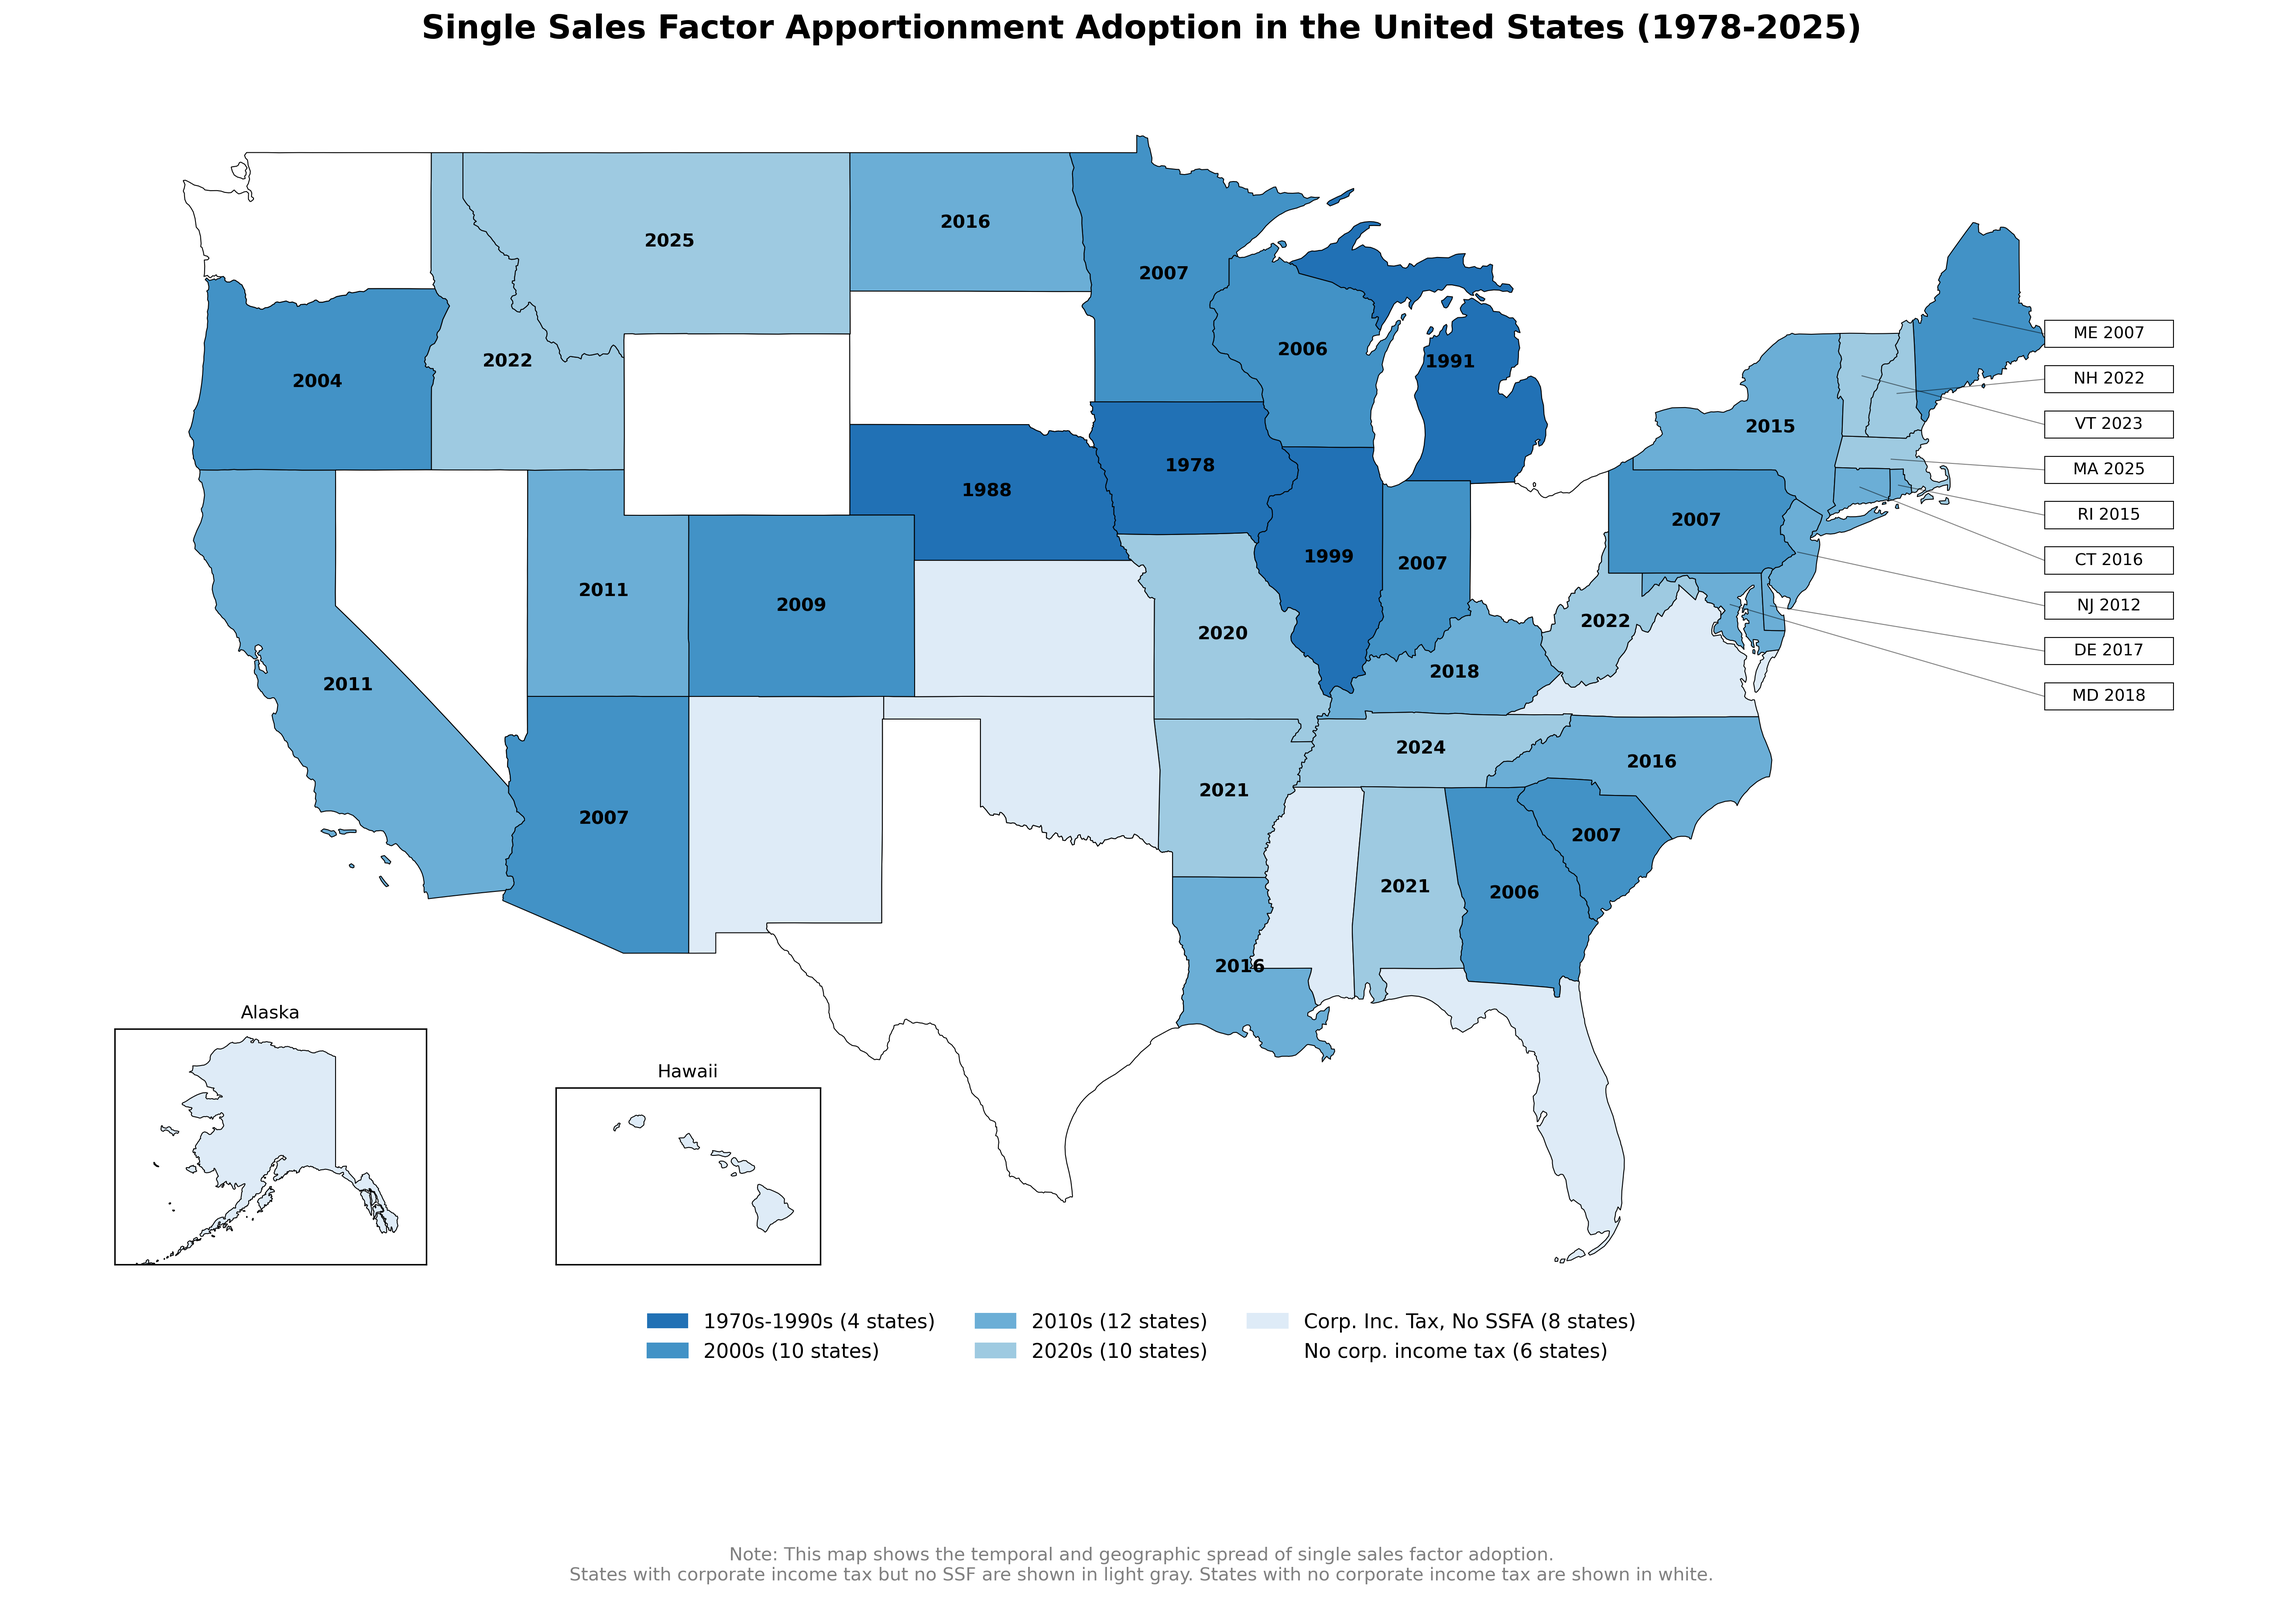
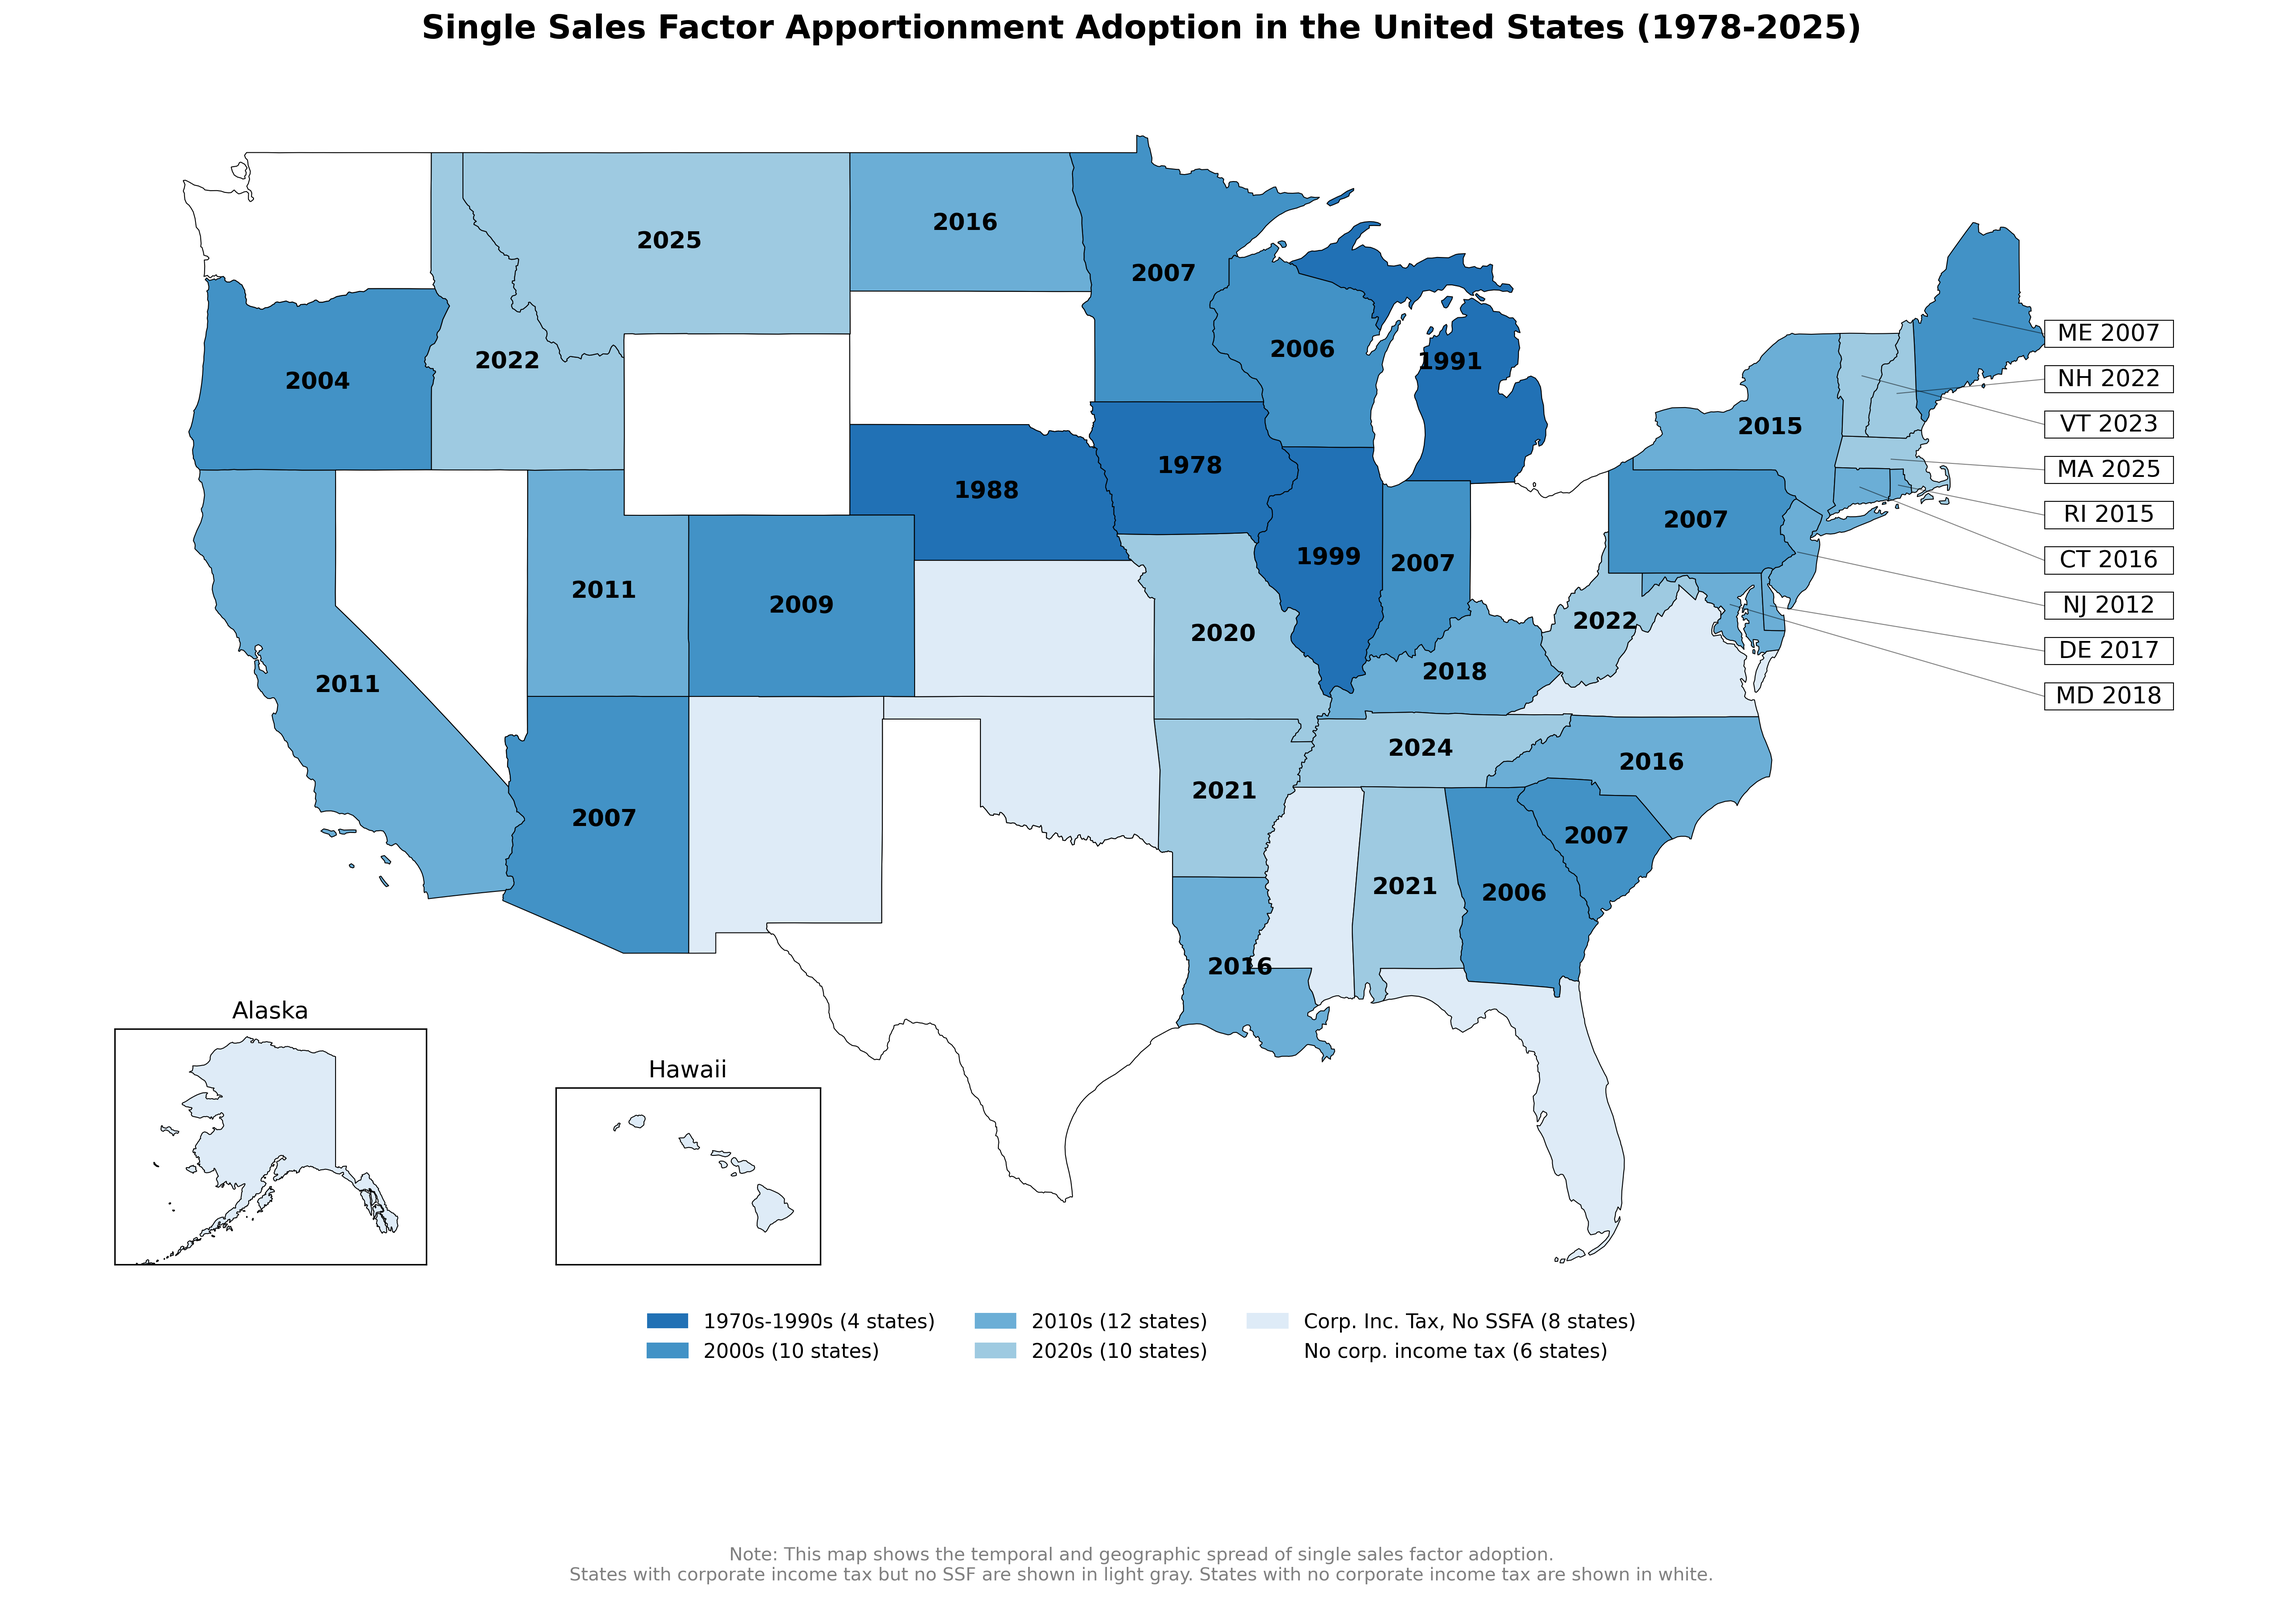
Larger font on years

diff --git a/ssfa_adoption_plot.py b/ssfa_adoption_plot.py
@@ -141,7 +141,7 @@ ax_alaska.set_xlim(-180, -125)
 ax_alaska.set_ylim(52, 72)
 ax_alaska.set_xticks([])
 ax_alaska.set_yticks([])
-ax_alaska.set_title('Alaska', fontsize=10)
+ax_alaska.set_title('Alaska', fontsize=14)
 
 # CHANGE 5: Hawaii inset - make smaller
 ax_hawaii = inset_axes(ax, width="15%", height="15%", loc='lower left',
@@ -152,7 +152,7 @@ ax_hawaii.set_xlim(-162, -154)
 ax_hawaii.set_ylim(18, 23)
 ax_hawaii.set_xticks([])
 ax_hawaii.set_yticks([])
-ax_hawaii.set_title('Hawaii', fontsize=10)
+ax_hawaii.set_title('Hawaii', fontsize=14)
 
 # Add labels for larger states (excluding callout states)
 for idx, row in states.iterrows():
@@ -170,7 +170,7 @@ for idx, row in states.iterrows():
             # Use black text for white states
             text_color = 'black' if state_name in ['Iowa', 'Nebraska', 'Michigan', 'Illinois'] else 'black'
             ax.text(centroid.x, centroid.y, str(ssf_data[state_name]['year']), 
-                   ha='center', va='center', fontsize=10, fontweight='bold', color=text_color)
+                   ha='center', va='center', fontsize=14, fontweight='bold', color=text_color)
             
 # Use white text for 1970s-1990s states (which are now white)
 if width > 2 and height > 2 or state_name == 'Tennessee':
@@ -180,7 +180,7 @@ if width > 2 and height > 2 or state_name == 'Tennessee':
     else:
         text_color = 'black'
     ax.text(centroid.x, centroid.y, str(ssf_data[state_name]['year']), 
-           ha='center', va='center', fontsize=10, fontweight='bold', color=text_color)
+           ha='center', va='center', fontsize=14, fontweight='bold', color=text_color)
 
 
 # Add callout boxes for northeastern states
@@ -216,7 +216,7 @@ for state, (box_x, box_y) in callout_positions.items():
             
             # Add text
             ax.text(box_x, box_y, f"{state_abbr[state]} {ssf_data[state]['year']}", 
-                   ha='center', va='center', fontsize=9)
+                   ha='center', va='center', fontsize=14)
 
 # Set map extent (continental US + space for callouts)
 ax.set_xlim(-130, -60)
@@ -232,7 +232,7 @@ ax.spines['left'].set_visible(False)
 
 # Add title at the very top of the figure
 fig.text(0.5, 0.95, 'Single Sales Factor Apportionment Adoption in the United States (1978-2025)', 
-         ha='center', va='center', fontsize=18, fontweight='bold')
+         ha='center', va='center', fontsize=20, fontweight='bold')
 
 # CHANGE 3: Remove subtitle - commented out
 # ax.text(0.5, 0.95, '36 states have adopted single sales factor apportionment for corporate income tax (1978-2025)',
@@ -263,10 +263,10 @@ plt.tight_layout()
 plt.subplots_adjust(top=0.90, bottom=0.15)  # Make room at top for title
 
 # Save the map in multiple formats
-plt.savefig('ssf_adoption_map4.png', dpi=300, bbox_inches='tight', facecolor='white')
+plt.savefig('ssf_adoption_map5.png', dpi=300, bbox_inches='tight', facecolor='white')
 
 print("Map saved as:")
-print("- ssf_adoption_map4.png (for presentations)")
+print("- ssf_adoption_map5.png (for presentations)")
 
 # Display the map
 plt.show()
